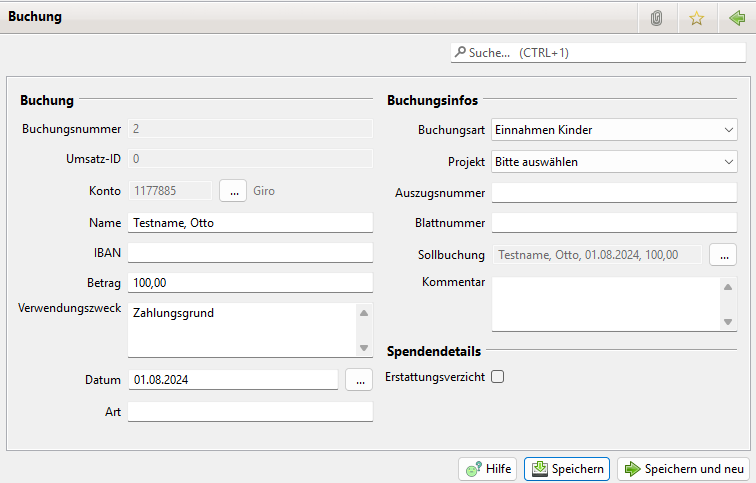
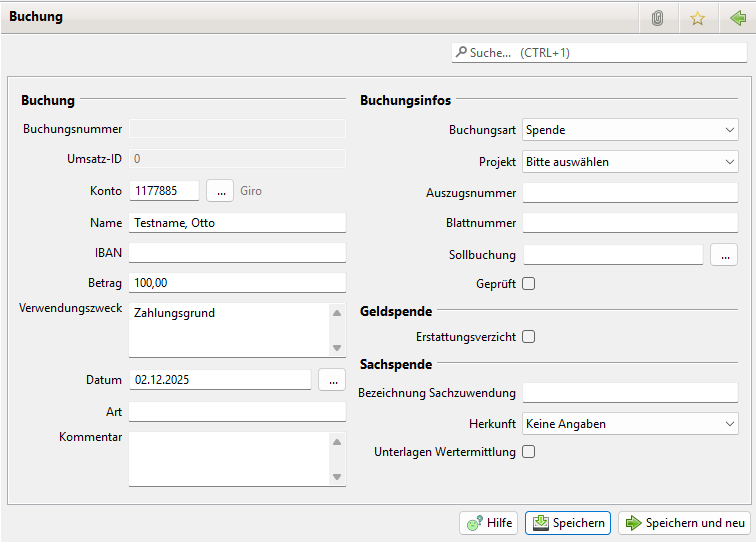
Update Buchung Neu Dialog

diff --git a/v/3.2/buchf/buchungen.md b/v/3.2/buchf/buchungen.md
@@ -57,6 +57,17 @@ Folgende Menü Einträge sind vorhanden:
 
 Buchungen können nur neu aufgenommen, geändert oder gelöscht werden, wenn sie nicht durch einen [Jahresabschluss](jahresabschluss.md) abgeschlossen wurden.
 
+## Buchung
+
+Durch einen Klick auf auf den Button "Neu" kann eine neue Buchung erstellt werden.
+
+![](../../../assets/320_BuchungDialog.png)
+
+Falls es sich bei der Buchung um eine Geldspende um einen Verzicht auf Aufwendungen handelt, ist die entsprechende Checkbox zu selektieren.
+
+Handelt es sich bei der Buchung um eine Sachspende so sind die entsprechenden Angaben in der Buchung zu machen.
+
+
 ## Zuordnung einer Buchung zu einer Sollbuchung
 
 Durch einen Klick auf auf den Menüeintrag "Sollbuchung zuordnen" öffnet sich folgender Dialog:
@@ -101,9 +112,5 @@ Folgende Zuordnungsregeln bestehen:
 Nach der Suche wird ein Dialog angezeigt, der die Zuordnungen dem Nutzer präsentiert. Dieser kann diese Zuordnungen auf Wunsch dann persistieren lassen.
 
 ![](../../../assets/320_AutomatischeZuordnungBestaetigen.png)
-
-## Buchung
-
-![](../../../assets/320_BuchungDialog.png)
 
 Siehe auch [Sollbuchungen](../mitglieder/mitgliedskonto.md), [Splittbuchungen](splittbuchungen.md)

diff --git a/v/4.0/buchf/buchungen.md b/v/4.0/buchf/buchungen.md
@@ -56,6 +56,17 @@ Folgende Menü Einträge sind vorhanden:
 
 Buchungen können nur neu aufgenommen, geändert oder gelöscht werden, wenn sie nicht durch einen [Jahresabschluss](jahresabschluss.md) abgeschlossen wurden.
 
+## Buchung
+
+Durch einen Klick auf auf den Button "Neu" kann eine neue Buchung erstellt werden.
+
+![](../../../assets/320_BuchungDialog.png)
+
+Falls es sich bei der Buchung um eine Geldspende um einen Verzicht auf Aufwendungen handelt, ist die entsprechende Checkbox zu selektieren.
+
+Handelt es sich bei der Buchung um eine Sachspende so sind die entsprechenden Angaben in der Buchung zu machen.
+
+
 ## Zuordnung einer Buchung zu einer Sollbuchung
 
 Durch einen Klick auf auf den Menüeintrag "Sollbuchung zuordnen" öffnet sich folgender Dialog:
@@ -101,8 +112,5 @@ Nach der Suche wird ein Dialog angezeigt, der die Zuordnungen dem Nutzer präsen
 
 ![](../../../assets/320_AutomatischeZuordnungBestaetigen.png)
 
-## Buchung
-
-![](../../../assets/320_BuchungDialog.png)
 
 Siehe auch [Sollbuchungen](../mitglieder/mitgliedskonto.md), [Splittbuchungen](splittbuchungen.md)

diff --git a/v/4.0/notes.md b/v/4.0/notes.md
@@ -86,12 +86,13 @@ Die Konfiguration für den abweichenden Zahler wurde jetzt in der 4.0 neu implem
 * Der Dialog erlaubt es auch nur einzelne Attribute zu setzen und andere unmodifiziert zu lassen
 * Der extra Dialog zu setzen der Steuer wurde entfernt
 
-### Spalte Mandat-Id in Mitglieder Liste aufgenommen
+### 
 
-* Die Spalte Mandat-Id wurde in die Mitglieder Liste aufgenommen
+* 
 
 
 
 ## Sonstiges
 
-* 
+* Die Spalte Mandat-Id wurde in die Mitglieder Liste aufgenommen
+
